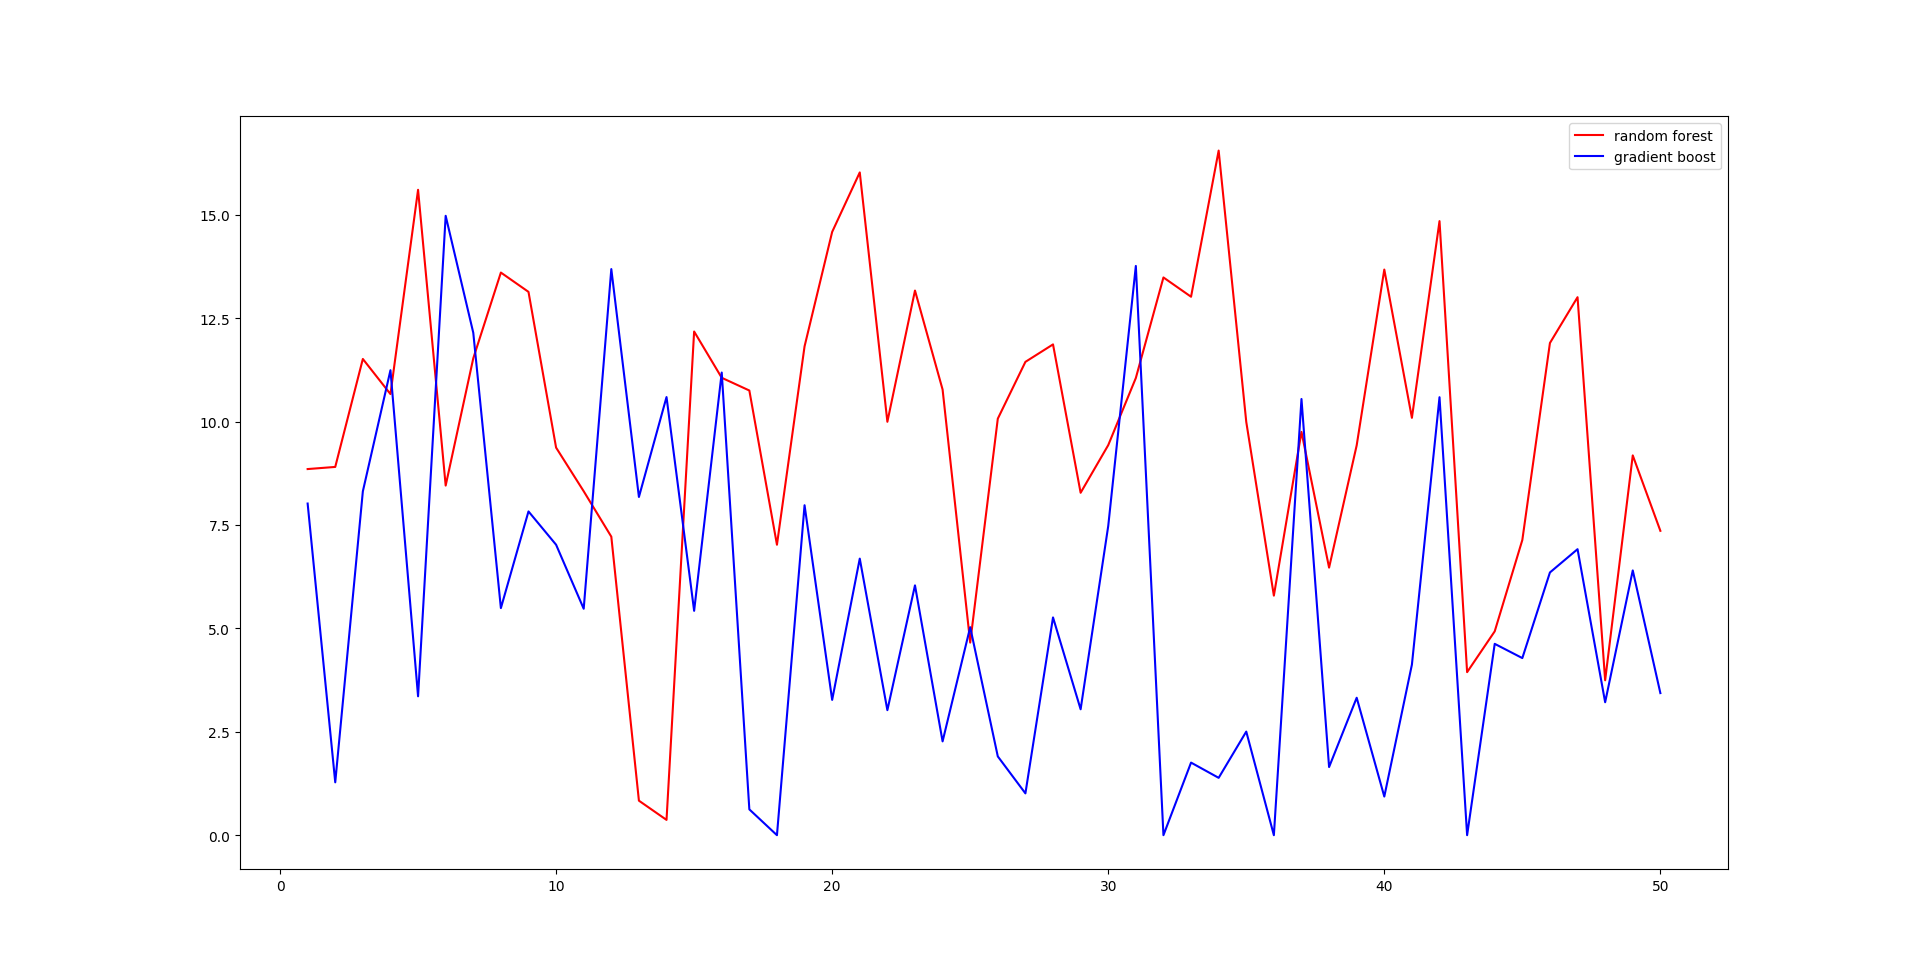
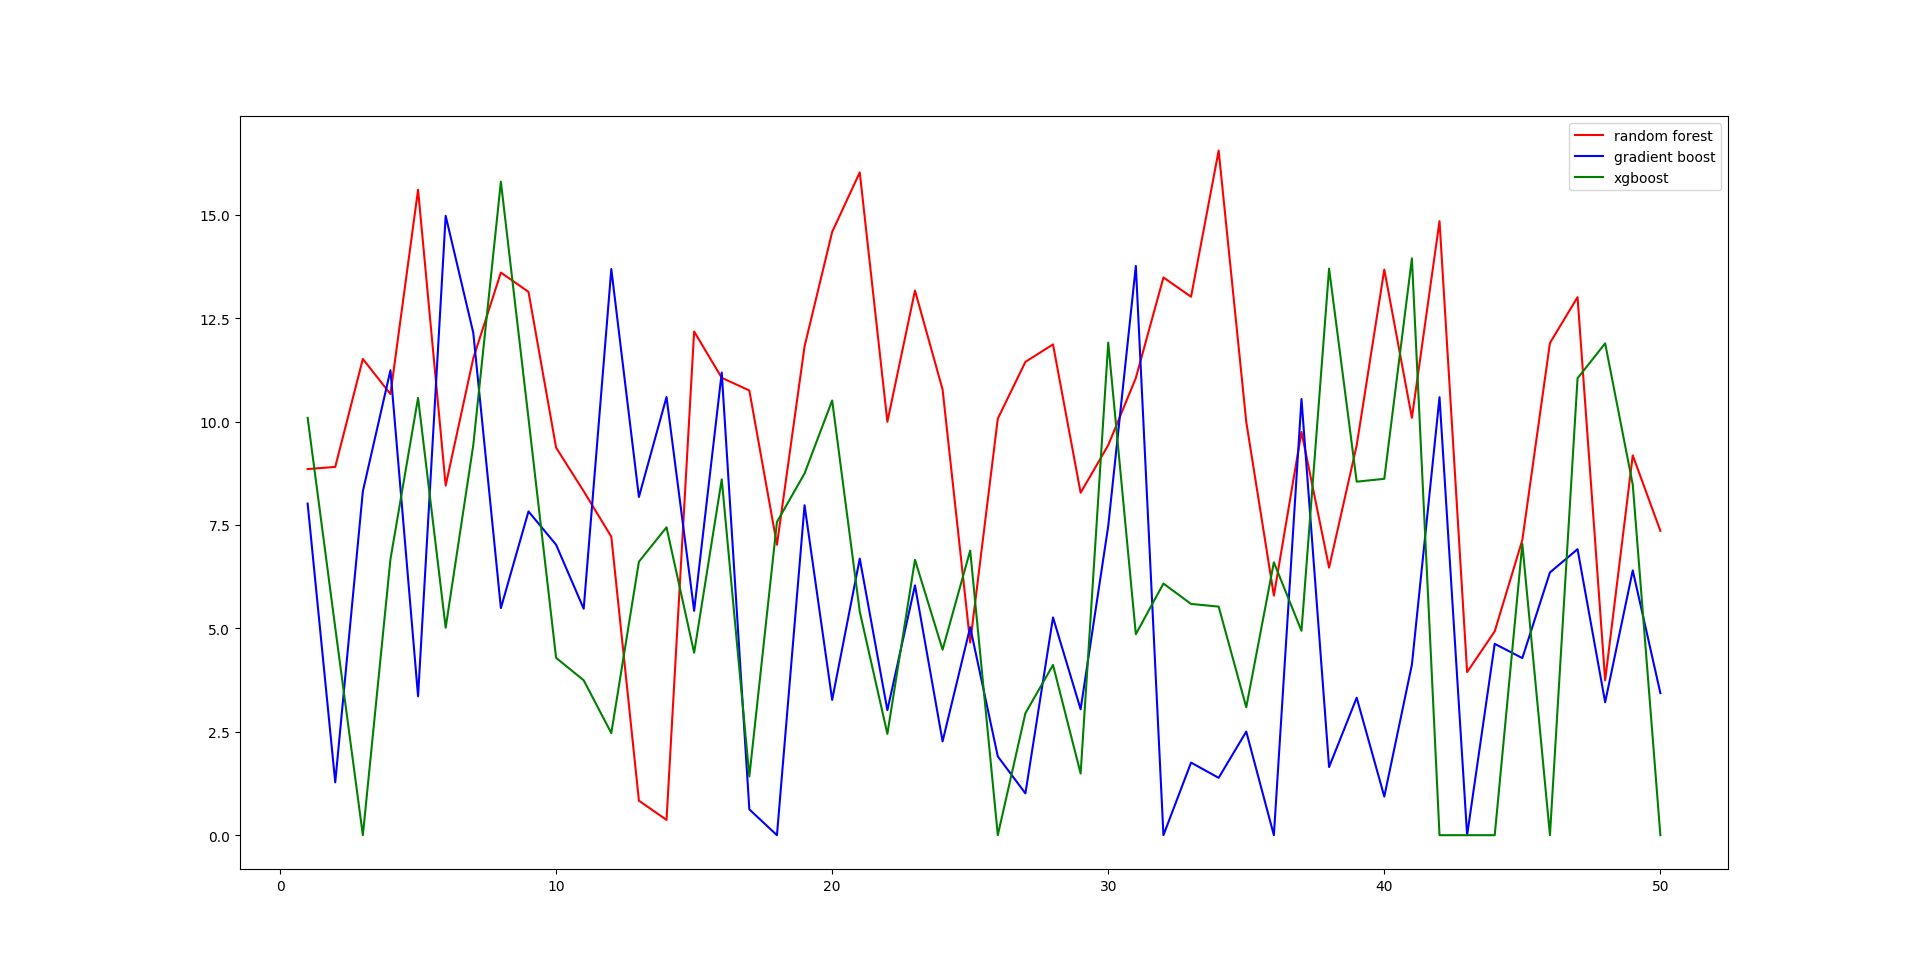
XGBoost

diff --git a/src/xgboost_classifier.py b/src/xgboost_classifier.py
@@ -1,44 +1,44 @@
 import os
 import numpy as np
 import pandas as pd
+import xgboost as xgb
 import pickle
 import datetime
 import matplotlib.pyplot as plt
 from smart_open import smart_open
 from multiprocessing import cpu_count, Pool
-from sklearn.ensemble import GradientBoostingClassifier
-from sklearn.model_selection import train_test_split
-from sklearn.metrics import average_precision_score
-from sklearn.metrics import precision_recall_curve
+from xgboost import plot_importance
+from sklearn.model_selection import train_test_split, GridSearchCV
+from sklearn.metrics import confusion_matrix, mean_squared_error
+from sklearn.metrics import average_precision_score, precision_recall_curve
 from sklearn.utils.fixes import signature
-from sklearn.model_selection import GridSearchCV
 
 from src.utility import load_data_clinical
 from src.utility import load_data_RNASeq
 
 
 NO_TREES = 200
-MAX_DEPTH = 8
-MAX_FEATURES = 'sqrt'
-LEARNING_RATE = 0.1
-LOSS = 'deviance'
+MAX_DEPTH = 3
+MIN_CHILD_WEIGHT = 5
+G = 0.5
+SUBSAMPLE = 0.6
 NO_JOBS = cpu_count() * 3
-MODEL_PATH = './models/models_gradient_boost/'
-MODEL_LIST_PATH = './models/models_gradient_boost/model_list.txt'
-FEATURE_IMP_PATH = './results/feature_importance_gbrt.txt'
-PRECISION_RECALL_CURVE_PATH = './results/curve_gradient_boost.png'
+MODEL_PATH = './models/models_xgboost/'
+MODEL_LIST_PATH = './models/models_xgboost/model_list.txt'
+FEATURE_IMP_PATH = './results/feature_importance_xgbt.txt'
+PRECISION_RECALL_CURVE_PATH = './results/curve_xgboost.png'
 
 
-def save_model(gbrt, gbrt_name):
-    # para gbrt: GB model to be saved
-    # para gbrt_name: name of the GB model
-    model_name = gbrt_name
+def save_model(xgbt, xgbt_name):
+    # para xgbt: XGBoost model to be saved
+    # para xgbt_name: name of the XGBoost model
+    model_name = xgbt_name
     if os.path.isdir(MODEL_PATH + model_name):
         print("\nmodel %s already existed" % model_name)
     else:
         os.mkdir(MODEL_PATH + model_name)
         with smart_open(MODEL_PATH + model_name + '/model.sav', 'wb') as save_path:
-            pickle.dump(gbrt, save_path)
+            pickle.dump(xgbt, save_path)
         # readme file
         readme_notes = np.array(["This %s model is trained on %s" % (model_name, str(datetime.datetime.now()))])
         np.savetxt(MODEL_PATH + model_name + '/readme.txt', readme_notes, fmt="%s")
@@ -48,15 +48,15 @@ def save_model(gbrt, gbrt_name):
 
 
 def load_model(model_no):
-    # para model_no: which GBRT model to load
+    # para model_no: which XGBoost model to load
     with smart_open(MODEL_LIST_PATH, 'rb', encoding='utf-8') as model_list:
         for line_no, line in enumerate(model_list):
             if line_no == model_no - 1:
                 model_path = str(line).replace('\n', '')
                 with smart_open(model_path + '/model.sav', 'rb') as f:
-                    gbrt = pickle.load(f)
+                    xgbt = pickle.load(f)
                 break
-    return gbrt
+    return xgbt
 
 
 def save_importances(save2file):
@@ -68,13 +68,13 @@ def save_importances(save2file):
 
 
 '''ONLY SHOW TOP 50 FEATURES'''
-def show_important_feature(gbrt, data, save=True, img=False):
-    # para gbrt: GBRT model to draw important features
+def show_important_feature(xgbt, data, save=True, img=False):
+    # para xgbt: XGBoost model to draw important features
     # para data: RNA_Seq data w/ index
     # para save: whether or not to save importances to file
     # para img: whether or not to show the image
     feature_names = list(data.columns.values)
-    importances = gbrt.feature_importances_
+    importances = xgbt.feature_importances_
     print("\nFeature ranking:")
     indices = np.argsort(importances)[::-1]
     save2file = []
@@ -97,7 +97,7 @@ def show_important_feature(gbrt, data, save=True, img=False):
         plt.show()
 
 
-def run_gradient_boost(load=False, model_no=1):
+def run_xgboost_classifier(load=False, model_no=1):
     # para load: whether or not to load pre-trained model
     # para model_no: if load, which model to load
     data_RNASeq_labels = load_data_RNASeq()
@@ -112,24 +112,24 @@ def run_gradient_boost(load=False, model_no=1):
 
     if load:
         print("\nload pre-trained no.%d model" % model_no)
-        gbrt = load_model(model_no)
+        xgb_model = load_model(model_no)
     else:
-        print("\ntraining a Gradient Boosting Tree classifier ...")
-        gbrt = GradientBoostingClassifier(n_estimators=NO_TREES, random_state=0, max_features=MAX_FEATURES, max_depth=MAX_DEPTH, learning_rate=LEARNING_RATE)
-        gbrt_name = "n_estimators=%s,max_features=%s,max_depth=%s,learning_rate=%s" % (str(NO_TREES), MAX_FEATURES, str(MAX_DEPTH), str(LEARNING_RATE))
+        print("\ntraining a XGBoost classifier ...")
+        xgb_model = xgb.XGBClassifier(min_child_weight=MIN_CHILD_WEIGHT, gamma=G, subsample=SUBSAMPLE, n_estimators=NO_TREES, max_depth=MAX_DEPTH)
+        xgbt_name = "min_child_weight=%s,gamma=%s,subample=%s,n_estimators=%s,max_depth=%s" % (str(MIN_CHILD_WEIGHT), str(G), str(SUBSAMPLE), str(NO_TREES), str(MAX_DEPTH))
 
-        gbrt.fit(X_train, y_train)
+        xgb_model.fit(X_train, y_train)
 
-        print("\ntraining DONE.\n\nsaving the GB classifier ...")
-        save_model(gbrt, gbrt_name)
-
-    print("\ntesting the Gradient Boosting Tree classifier ...\n")
-    y_pred = gbrt.predict(X_test)
-    print("Accuracy on training set: %.3f" % gbrt.score(X_train, y_train))
-    print("Accuracy on test set: %.3f" % gbrt.score(X_test, y_test))
+        print("\ntraining DONE. \n\nsaving the XGBoost classifer ...")
+        save_model(xgb_model, xgbt_name)
+        
+    print("\ntesting the XGBoost classifier ...")
+    y_pred = xgb_model.predict(X_test)
+    print(mean_squared_error(y_test, y_pred))
+    print(confusion_matrix(y_test, y_pred))
 
     # show & save the top 50 important features
-    show_important_feature(gbrt, data_RNASeq, img=False)
+    show_important_feature(xgb_model, data_RNASeq, img=False)
     # draw the precision recall curve for the classifier
     draw_precision_recall_curve(y_test, y_pred)
 
@@ -151,7 +151,7 @@ def draw_precision_recall_curve(y_test, y_score):
 
 '''ONLY EXECUTE ONCE'''
 def tune_hyperparameters():
-    # load the data
+    # loda the data
     data_RNASeq_labels = load_data_RNASeq()
     data_RNASeq_labels = data_RNASeq_labels.drop(columns=['gene'])
 
@@ -162,21 +162,23 @@ def tune_hyperparameters():
     print("\nsplitting the training/test dataset ...")
     X_train, X_test, y_train, y_test = train_test_split(data_RNASeq, data_labels)
 
-    parameters = {
-        "n_estimators": [200, 400, 500, 600, 800],
-        "max_features": ['log2', 'sqrt'],
-        "max_depth": [3, 5, 8],
-        "learning_rate": [0.05, 0.1, 0.2]
+    params = {
+        "min_child_weight": [1, 5 ,10],
+        "gamma": [0.5, 1, 2],
+        "subsample": [0.6, 0.8, 1.0],
+        "max_depth": [3, 5],
+        "n_estimators": [50, 200]
     }
 
-    print("\nrunning the Grid Search for Gradient Boosting Tree classifier ...")
-    clf = GridSearchCV(GradientBoostingClassifier(), parameters, cv=3, n_jobs=NO_JOBS, verbose=10)
+    print("\nrunning the Grid Search for XGBoost classifier ...")
+    clf = GridSearchCV(xgb.XGBClassifier(), params, cv=3, n_jobs=NO_JOBS, verbose=10)
 
     clf.fit(X_train, y_train)
-    print(clf.score(X_train, y_train))
-    print(clf.best_params_)
-    
-    # save tune hyperparameters
-    with smart_open("./results/best_params_gradient_boost.txt", 'w', encoding='utf-8') as f:
+    print(clf.best_score_)
+    print(clf.best_estimator_)
+
+    # save tuned hyperparameters
+    with smart_open("./results/best_params_xgboost.txt", 'w', encoding='utf-8') as f:
         f.write(str(clf.best_params_) + str(clf.best_score_))
-    print("\nbest hyperparameters for GBRT has been written to file.")
+    print("\nbest hyperparameters for XGBOOST has been written to file.")
+

diff --git a/src/survival_analysis.py b/src/survival_analysis.py
@@ -12,14 +12,16 @@ from src.utility import load_data_RNASeq
 
 IMPORTANT_FEATURE_RANDOM_FOREST = './results/feature_importance_rf.txt'
 IMPORTANT_FEATURE_GRADIENT_BOOST = './results/feature_importance_gbrt.txt'
+IMPORTANT_FEATURE_XGBOOST = './results/feature_importance_xgbt.txt'
 PLOTS_PATH_RF = './images/random_forest/'
 PLOTS_PATH_GBRT = './images/gradient_boost/'
+PLOTS_PATH_XBGT = './images/xgboost/'
 LOG_P_VALUES_PATH = './results/'
 
 
 def survival_analysis_with_one_RNASeq(model_type, data, feature_list, feature_no):
-    # para model_type:
-    # para feature_no:
+    # para model_type: the type of classifier model (RF/GBRT/XGBoost)
+    # para feature_no: the index of the feature [0, 50]
     feature_name = feature_list[feature_no][1]
     T = data[feature_name]
     E = data['label']
@@ -55,13 +57,15 @@ def survival_analysis_with_one_RNASeq(model_type, data, feature_list, feature_no
     print("\nmedian survival time of lower group", kmf_lower.median_)
 
     plt.ylim(0, 1)
-    plt.title("life span")
+    plt.title("life span with or without %s gene signature" % feature_name)
 
     img_name = "gene_sig_%d.png" % (feature_no+1)
     if model_type == 'rf':
         ax.get_figure().savefig(PLOTS_PATH_RF + img_name)
     elif model_type == 'gbrt':
         ax.get_figure().savefig(PLOTS_PATH_GBRT + img_name)
+    elif model_type == 'xgbt':
+        ax.get_figure().savefig(PLOTS_PATH_XBGT + img_name)
     ax.clear() # for the next use
 
     results = logrank_test(higher_group[:,0], lower_group[:,0], higher_group[:,1], lower_group[:,1], alpha=.99)
@@ -84,6 +88,10 @@ def survival_analysis_with_all_RNASeq(model_type):
         for line in smart_open(IMPORTANT_FEATURE_GRADIENT_BOOST, 'r', encoding='utf-8'):
             line = line.split()
             feature_list.append((line[2], line[3]))
+    elif model_type == 'xgbt':
+        for line in smart_open(IMPORTANT_FEATURE_XGBOOST, 'r', encoding='utf-8'):
+            line = line.split()
+            feature_list.append((line[2], line[3]))
     else:
         print("\nPlease indicate the type of model you have trained to produce important features")
 
@@ -96,8 +104,8 @@ def survival_analysis_with_all_RNASeq(model_type):
     
 
 def save_log_p_values(model_type, log_p_values):
-    # para model_type:
-    # para log_p_values:
+    # para model_type: the type of classifier model (RF/GBRT/XGBoost)
+    # para log_p_values: p-values (-log10) on the top 50 gene signatures selected by this classifier
     filename = LOG_P_VALUES_PATH + 'log_p_values_%s.txt' % model_type
     np.savetxt(filename, log_p_values)
     print("\nlog p-values has been saved to file.")
@@ -106,8 +114,10 @@ def save_log_p_values(model_type, log_p_values):
 def draw_log_p_values():
     rf_p_values = np.loadtxt(LOG_P_VALUES_PATH + 'log_p_values_rf.txt')
     gbrt_p_values = np.loadtxt(LOG_P_VALUES_PATH + 'log_p_values_gbrt.txt')
+    xgbt_p_values = np.loadtxt(LOG_P_VALUES_PATH + 'log_p_values_xgbt.txt')
     range_p_values = list(range(1,51))
     plt.plot(range_p_values, rf_p_values, 'r', label='random forest')
     plt.plot(range_p_values, gbrt_p_values, 'b', label='gradient boost')
+    plt.plot(range_p_values, xgbt_p_values, 'g', label='xgboost')
     plt.legend()
     plt.show()

diff --git a/src/random_forest.py b/src/random_forest.py
@@ -24,7 +24,7 @@ NO_JOBS = cpu_count() * 3
 MODEL_PATH = './models/models_random_forest/'
 MODEL_LIST_PATH = './models/models_random_forest/model_list.txt'
 FEATURE_IMP_PATH = './results/feature_importance_rf.txt'
-ROC_CURVE_PATH = './results/roc_curve_random_forest.png'
+PRECISION_RECALL_CURVE_PATH = './results/curve_random_forest.png'
 
 
 def save_model(forest, forest_name):
@@ -46,7 +46,7 @@ def save_model(forest, forest_name):
 
 
 def load_model(model_no):
-    # para model_no:
+    # para model_no: which RF model to load
     with smart_open(MODEL_LIST_PATH, 'rb', encoding='utf-8') as model_list:
         for line_no, line in enumerate(model_list):
             if line_no == model_no - 1:
@@ -65,12 +65,12 @@ def save_importances(save2file):
             f.write("\n")
 
 
+'''ONLY SHOW TOP 50 FEATURES'''
 def show_important_feature(forest, data, save=True, img=False):
     # para forest: RF model to draw important features
     # para data: RNA_Seq data w/ index
     # para save: whether or not to save importances to file
     # para img: whether or not to show the image
-    n_features = data.shape[1]
     feature_names = list(data.columns.values)
     importances = forest.feature_importances_
     print("\nFeature ranking:")
@@ -110,6 +110,7 @@ def run_random_forest(load=False, model_no=1):
     X_train, X_test, y_train, y_test = train_test_split(data_RNASeq, data_labels)
 
     if load:
+        print("\nload pre-trained no.%d model" % model_no)
         forest = load_model(model_no)
     else:
         print("\ntraining a Random Forest classifier ...")
@@ -126,7 +127,9 @@ def run_random_forest(load=False, model_no=1):
     print("Accuracy on training set: %.3f" % forest.score(X_train, y_train))
     print("Accuracy on test set: %.3f" % forest.score(X_test, y_test))
 
+    # show & save the top 50 important features
     show_important_feature(forest, data_RNASeq, img=False)
+    # draw the precision recall curve for the classifier
     draw_precision_recall_curve(y_test, y_pred)
 
 
@@ -142,7 +145,7 @@ def draw_precision_recall_curve(y_test, y_score):
     plt.ylim([0.0, 1.05])
     plt.xlim([0.0, 1.0])
     plt.title('2-class Precision-Recall curve: AP={0:0.2f}'.format(average_precision))
-    fig.savefig(ROC_CURVE_PATH, dpi=300)
+    fig.savefig(PRECISION_RECALL_CURVE_PATH, dpi=300)
 
 
 '''ONLY EXECUTE ONCE'''
@@ -171,7 +174,7 @@ def tune_hyperparameters():
     print(clf.score(X_train, y_train))
     print(clf.best_params_)
 
-    # np.savetxt("./results/all_params_random_forest.txt", clf.cv_results_)
+    # save tuned hyperparameters
     with smart_open("./results/best_params_random_forest.txt", 'w', encoding='utf-8') as f:
         f.write(str(clf.best_params_) + str(clf.best_score_))
     print("\nbest hyperparameters for RF has been written to file.")

diff --git a/main.py b/main.py
@@ -3,15 +3,28 @@ import pandas as pd
 import src.utility as ut
 import src.random_forest as rf
 import src.gradient_boost as gb
+import src.xgboost_classifier as xgbt
 import src.survival_analysis as sa
 
 
+def tune_hyperparameters_for_classifiers():
+    rf.tune_hyperparameters()
+    gb.tune_hyperparameters()
+    xgbt.tune_hyperparameters()
+    
+
 if __name__ == "__main__":
-    # rf.tune_hyperparameters()
-    # gb.tune_hyperparameters()
-    # ut.label_RNASeq_data(lymph=True)
+    # run the Random Forest Classifier (pre-trained)
     rf.run_random_forest(load=True, model_no=3)
+    # run the Gradient Tree Boosting Classifier (pre-trained)
     gb.run_gradient_boost(load=True, model_no=5)
+    # run the XGBoost Classifier (pre-trained)
+    xgbt.run_xgboost_classifier(load=True, model_no=2)
+
+    # survival analysis on every gene signatures that were selected by different classifiers
     sa.survival_analysis_with_all_RNASeq('rf')
     sa.survival_analysis_with_all_RNASeq('gbrt')
+    sa.survival_analysis_with_all_RNASeq('xgbt')
+
+    # draw the p-values of every gene siganure
     sa.draw_log_p_values()
